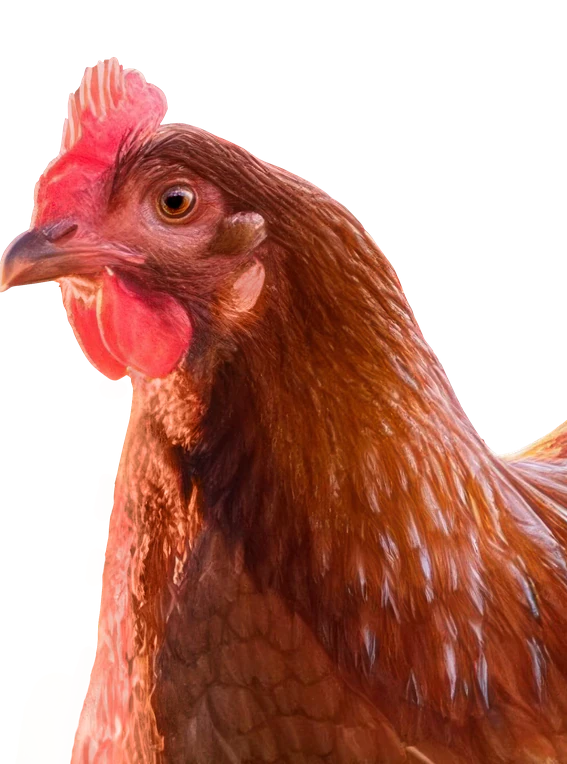
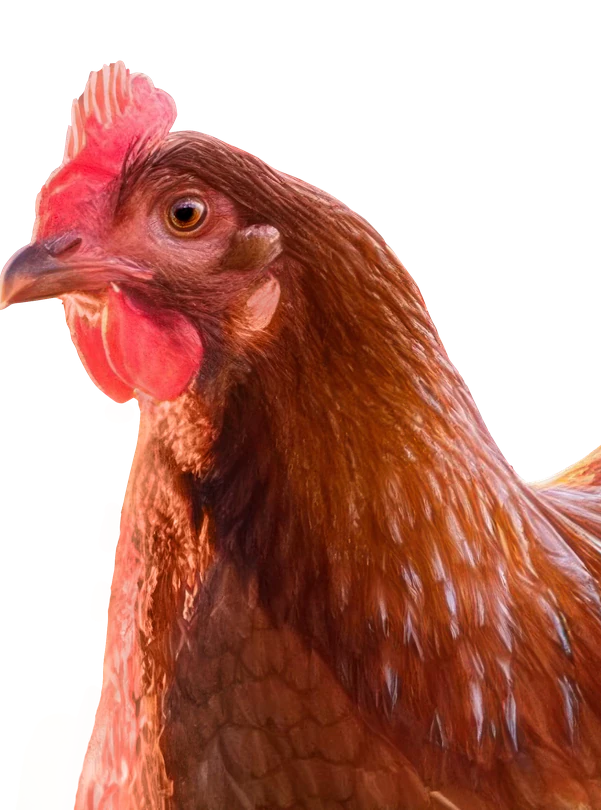
Widen Find Out More CTA to match end-card width

diff --git a/index.html b/index.html
@@ -73,7 +73,7 @@
      client-native PDF), with Chicken's own assets scaled by the 320/300
      width ratio (preserves aspect, no distortion) into those zones.
      Frames 2-5 reused directly from the 320x480 Budgie banner, unchanged. */
-  .bird      { left: 131px;    top: 225.33px; width: 189px;    height: 254.67px; }
+  .bird      { left: 119.66px; top: 210.05px; width: 200.34px; height: 269.95px; }
   .headline  { left: 20.33px;  top: 95.33px;  width: 278.67px; height: 110.33px; transform-origin: left center; }
   .text2     { left: 35px;     top: 174.67px; width: 199.33px; height: 84px; }
   .text3     { left: 35px;     top: 174.67px; width: 246.33px; height: 88.67px; }
@@ -81,7 +81,7 @@
   .step2     { left: 56.96px;  top: 238.47px; width: 206px;    height: 51.33px; }
   .step3     { left: 56.96px;  top: 301.83px; width: 154.67px; height: 52px; }
   .card      { left: 81.67px;  top: 143px;    width: 156.67px; height: 158.33px; }
-  .cta       { left: 81.33px;  top: 316.67px; width: 157.33px; height: 27.33px; }
+  .cta       { left: 81.67px;  top: 316.67px; width: 156.67px; height: 27.22px; }
   .govtnz    { left: 210.33px; top: 430.33px; width: 90.67px;  height: 33.33px; }
 
   /* --- keyframes ---
